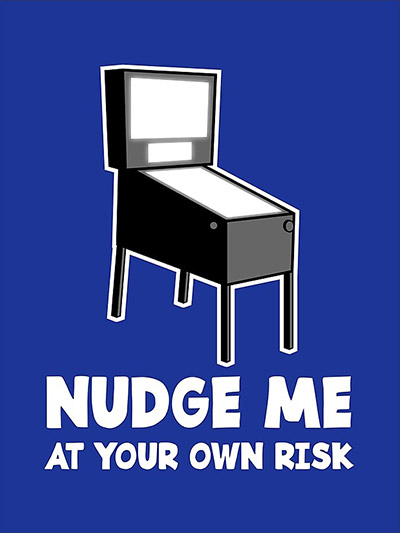
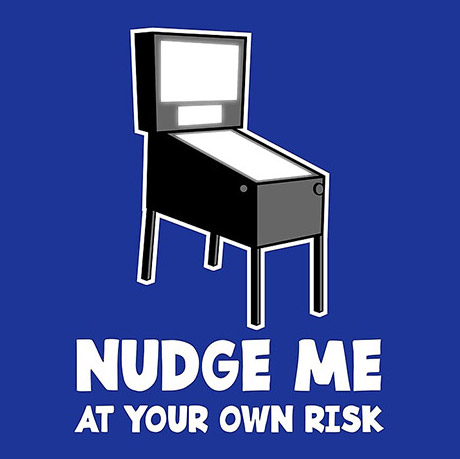
Added images to tips & tricks

Changed region(s): [[0.09, 0.0305, 0.9, 0.9455], [0.99, 0.0, 1.0, 1.0]]

diff --git a/flipperkast.html b/flipperkast.html
@@ -471,7 +471,14 @@
       </div>
 
       <div class="row">
-        <div class="col-md">
+        <div class="col-md-2 text-center order-md-last">
+          <img
+            src="./resources/img/vortex/instruction-card.jpg"
+            alt="Instructiekaart van The Addams Family flipperkast"
+            class="img-fluid tip-img"
+          />
+        </div>
+        <div class="col-md col-xl-8">
           <p>
             Geen idee wat je moet doen bij een bepaalde flipperkast? Druk in het
             menu op de linker magnasave knop om de instructies te lezen. Daarin
@@ -479,25 +486,17 @@
             goed op weg.
           </p>
         </div>
-        <div class="col-md-5 col-xl-4">
-          <img
-            src="./resources/img/vortex/instruction-card.jpg"
-            alt="Instructiekaart van The Addams Family flipperkast"
-            class="img-fluid"
-          />
-        </div>
       </div>
 
       <div class="row mt-3">
-        <div class="col-md-2">
+        <div class="col-md-2 text-center">
           <img
             src="./resources/img/vortex/nudge.jpg"
             alt="Poster met Nudge me at your own risk"
-            class="img-fluid"
+            class="img-fluid tip-img"
           />
         </div>
-
-        <div class="col-md">
+        <div class="col-md col-xl-8">
           <p>
             Je kan de flipperkast (lichtjes) naar links of rechts duwen om de
             bal te manipuleren op het speelveld. Dit heet "nudgen".
@@ -511,6 +510,13 @@
       </div>
 
       <div class="row mt-3">
+        <div class="col-md-2 text-center order-md-last">
+          <img
+            src="./resources/img/vortex/vortex-flipper-buttons.jpg"
+            alt="De flipper- en magnasaveknop in verschillende kleuren"
+            class="img-fluid tip-img"
+          />
+        </div>
         <div class="col">
           <p>
             Eenmaal een flipperkast geladen is lichten de flipper- en magnasave
@@ -522,6 +528,13 @@
       </div>
 
       <div class="row">
+        <div class="col-md-2 text-center">
+          <img
+            src="./resources/img/vortex/loading-screen.jpg"
+            alt="De flipper- en magnasaveknop in verschillende kleuren"
+            class="img-fluid tip-img"
+          />
+        </div>
         <div class="col">
           <p>
             Nog eens herhalen: nooit munten inwerpen als je nog in het menu of
@@ -532,6 +545,13 @@
       </div>
 
       <div class="row">
+        <div class="col-md-2 text-center order-md-last">
+          <img
+            src="./resources/img/vortex/launch-ball.jpg"
+            alt="De flipper- en magnasaveknop in verschillende kleuren"
+            class="img-fluid tip-img"
+          />
+        </div>
         <div class="col">
           <p>
             Sommige flipperkasten hadden geen plunger maar een "Launch Ball"
@@ -543,15 +563,22 @@
       </div>
 
       <div class="row">
+        <div class="col-md-2 text-center">
+          <img
+            src="./resources/img/vortex/no-drinks.jpg"
+            alt="De flipper- en magnasaveknop in verschillende kleuren"
+            class="img-fluid tip-img"
+          />
+        </div>
         <div class="col">
           <p>
             Zet nooit drank op de flipperkast. Dit kan het glas beschadigen of
-            nog ergere schade als er gemorst wordt.
+            nog ergere schade veroorzaken als er gemorst wordt.
           </p>
         </div>
       </div>
 
-      <div class="row">
+      <div class="row mt-5">
         <div class="col">
           <p>
             <em>

diff --git a/resources/css/style.css b/resources/css/style.css
@@ -218,6 +218,11 @@ th {
   width: 100px;
 }
 
+.tip-img {
+  margin-bottom: 1rem;
+  width: 60%;
+}
+
 /* Small breakpoint */
 
 @media screen and (min-width: 576px) {
@@ -230,6 +235,10 @@ th {
   .spotlight,
   #navbar-index {
     font-size: 1.15rem;
+  }
+
+  .tip-img {
+    width: 50%;
   }
 }
 
@@ -255,6 +264,9 @@ th {
   }
   #navbar-index {
     text-shadow: 0 0 15px black, 0 0 15px black;
+  }
+  .tip-img {
+    width: 100%;
   }
 }
 
